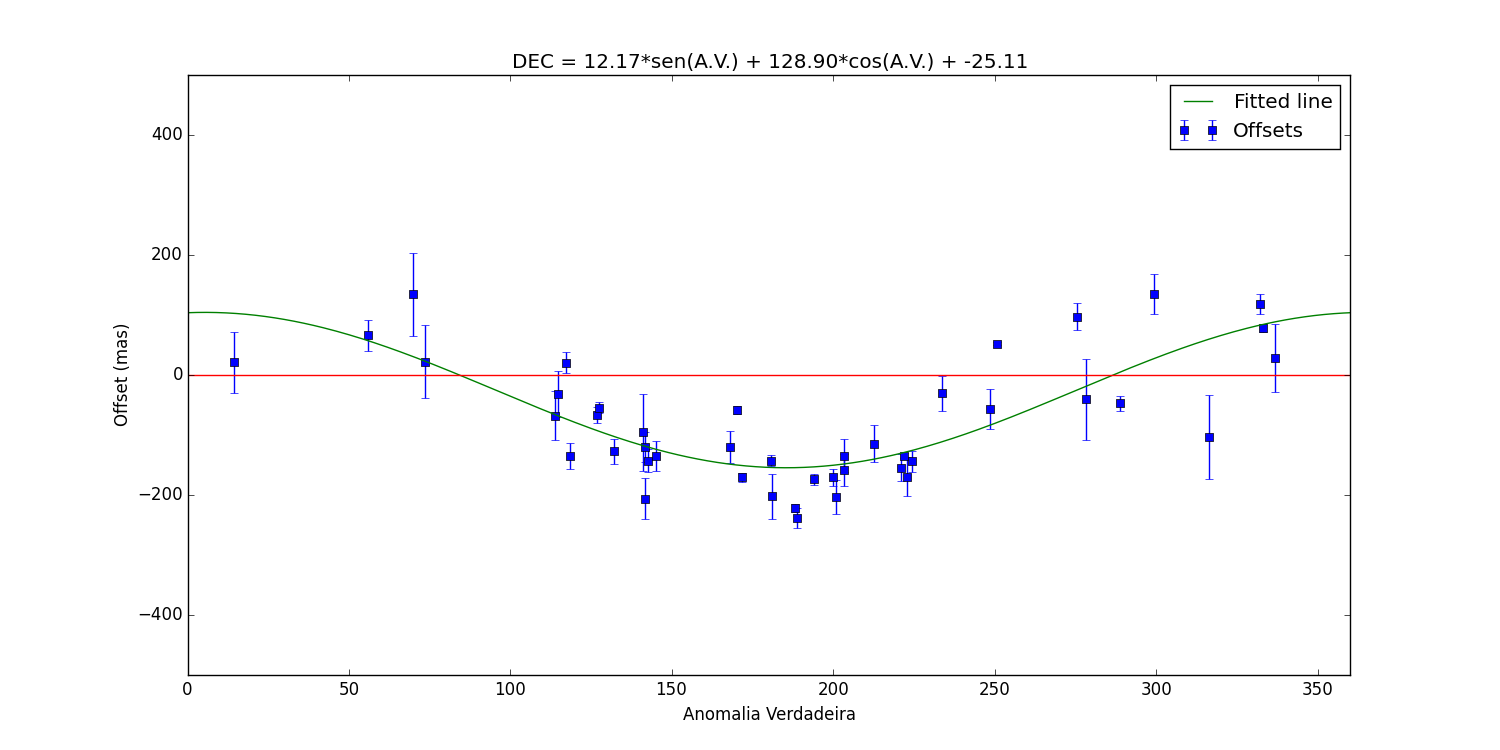
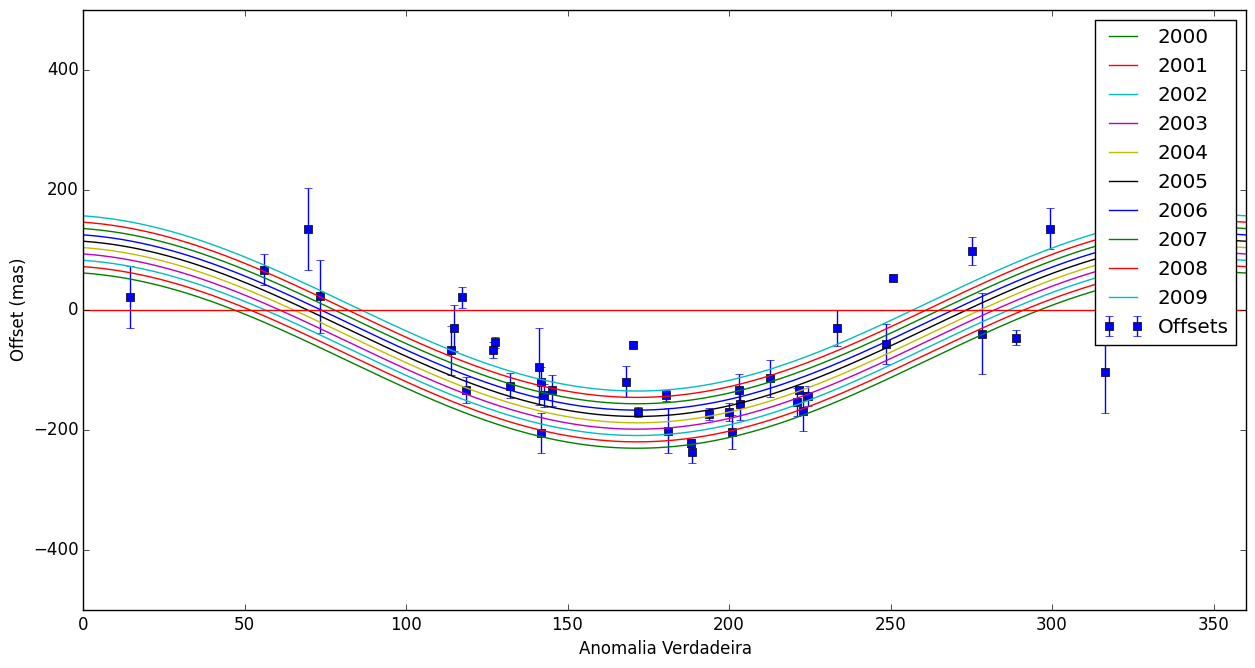
feito ajuste

diff --git a/offset_irregular/Carme/2015/teste.py b/offset_irregular/Carme/2015/teste.py
@@ -2,23 +2,41 @@ import numpy as np
 import matplotlib.pyplot as plt
 import astropy.units as u
 from astropy.time import Time
+import scipy.odr.odrpack as odrpack
 
 ######################################################################
-y = np.loadtxt('Carme_ephem.dat', skiprows=3, usecols=(2, 20, 21, 37, 16, 36), unpack=True) ## 2: JD; 20: dist_prim X; 21: dist_prim Y; 37: anom. verd.; 16: distancia; anom. med.
+y = np.loadtxt('Carme_ephem.dat', skiprows=3, usecols=(2, 20, 21, 37, 16, 36), unpack=True) ## 2: JD; 20: dist_prim X; 21: dist_prim Y; 37: anom. verd.; 16: distancia; 36: anom. med.
 z = np.loadtxt('Carme_total', usecols=(0, 1, 2, 3), unpack=True) ## 0: off RA; 1: off DEC; 2: off_err RA; 3: off_err DEC
 
 k = np.arange(361)
 
 ############## Declinacao ############################################
 
-A = np.vstack([ np.sin(y[3]*u.deg), np.cos(y[3]*u.deg), np.ones(len(y[3]))]).T
+A = np.vstack([y[0] - 2451544.5, np.sin(y[5]*u.deg)*np.cos(y[5]*u.deg), np.sin(y[5]*u.deg), np.cos(y[5]*u.deg), np.ones(len(y[3]))]).T
 
-p = np.linalg.lstsq(A, z[1])
+#p = np.linalg.lstsq(A, z[1])
+
+def f(B, x):
+    return B[0]*(x[0] - 2451544.5) + B[1]*np.sin(x[1]*u.deg) + B[2]*np.cos(x[1]*u.deg) + B[3]
+
+x = np.vstack([y[0], y[5]])
+
+linearde = odrpack.Model(f)
+#mydata = odrpack.Data(x, z[1], wd=1./np.power(z[2],2), we=1./np.power(sy,2))
+mydata = odrpack.RealData(x, z[1], sy=z[3])
+print "Declinacao"
+myodr = odrpack.ODR(mydata, linearde, beta0=[1.78854119e-03, -1.21822344e+00, 9.88555083e+00, -6.08946292e+00])
+myoutput = myodr.run()
+myoutput.pprint()
+
+#print p[0]
+#print "Desvio padrao DEC:", np.sqrt(((z[1]/z[3] - (A*p[0]).sum(axis=1))**2).sum())
 
 plt.errorbar(y[3], z[1], yerr=z[3], fmt='s', label='Offsets')
 #plt.plot(y[3], z[1], 's', label='Offsets')
-plt.plot(p[0][0]*np.sin(np.pi*k/180) + p[0][1]*np.cos(np.pi*k/180) + p[0][2], 'g', label='Fitted line')
-plt.title('DEC = {:.2f}*sen(A.V.) + {:.2f}*cos(A.V.) + {:.2f}'.format(p[0][0], p[0][1], p[0][2]))
+for i in np.arange(2000,2010,1):
+    plt.plot(f(myodr.output.beta, np.vstack([Time('{}-01-01 00:00:00'.format(i), format='iso').jd*np.ones(len(k)),k])), label=i)
+#plt.title('DEC = {:.2f}*sen(A.V.) + {:.2f}*cos(A.V.) + {:.2f}'.format(p[0][0], p[0][1], p[0][2]))
 plt.xlim(0,360)
 plt.ylim(-500,500)
 plt.xlabel('Anomalia Verdadeira')
@@ -27,22 +45,38 @@ plt.legend()
 plt.axhline(0, color='red')
 fig =plt.gcf()
 fig.set_size_inches(15.0,7.5)
-fig.savefig('DEC.png',dpi=100)
+fig.savefig('DEC.png',dpi=100, bbox_inches='tight')
 #plt.savefig('DEC.png')
 plt.clf()
-print p[1]
 
 
 #################### Ascensao Reta ##################################
 
-B = np.vstack([np.sin(y[3]*u.deg)**2, np.cos(y[3]*u.deg)**2, np.sin(y[3]*u.deg)*np.cos(y[3]*u.deg), np.sin(y[3]*u.deg), np.cos(y[3]*u.deg), np.ones(len(y[3]))]).T
+B = np.vstack([y[0] - 2451544.5, np.sin(y[5]*u.deg)*np.cos(y[5]*u.deg), np.sin(y[5]*u.deg), np.cos(y[5]*u.deg), np.ones(len(y[3]))]).T
 
-q = np.linalg.lstsq(B, z[0])
+#q = np.linalg.lstsq(B, z[0])
+
+def g(B, x):
+    return B[0]*(x[0] - 2451544.5) + B[1]*np.sin(x[1]*u.deg)*np.cos(x[1]*u.deg) + B[2]*np.sin(x[1]*u.deg) + B[3]*np.cos(x[1]*u.deg) + B[4]
+
+x = np.vstack([y[0], y[5]])
+
+linearra = odrpack.Model(g)
+#mydata = odrpack.Data(x, z[1], wd=1./np.power(z[2],2), we=1./np.power(sy,2))
+mydata = odrpack.RealData(x, z[0], sy=z[2])
+print "Ascensao Reta"
+myodr = odrpack.ODR(mydata, linearra, beta0=[3.62659327e-04,7.82345630e+00, -6.40102501e-01, -2.83655752e-01, -9.32980254e-02])
+myoutput = myodr.run()
+myoutput.pprint()
+
+#print q[0]
+#print "Desvio padrao RA:", np.sqrt(((z[0]/z[2] - (B*q[0]).sum(axis=1))**2).sum())
 
 plt.errorbar(y[3], z[0], yerr=z[2], fmt='s', label='Offsets')
 #plt.plot(y[3], z[0], 's', label='Offsets')
-plt.plot(q[0][0] * np.sin(np.pi*k/180)**2 + q[0][1] * np.cos(np.pi*k/180)**2 + q[0][2]*np.sin(np.pi*k/180)*np.cos(np.pi*k/180) + q[0][3]*np.sin(np.pi*k/180)**2 + q[0][4]*np.cos(np.pi*k/180)**2 + q[0][5], 'g', label='Fitted line')
-plt.title('RA = {:.2f}*sen^2(A.V.) + {:.2f}*cos^2(A.V.) + {:.2f}*sen(A.V.)*cos(A.V.) + {:.2f}*sen(A.V.) + {:.2f}*cos(A.V.) + {:.2f}'.format(q[0][0], q[0][1], q[0][2], q[0][3], q[0][4], q[0][5]))
+for i in np.arange(2000,2010,1):
+    plt.plot(g(myodr.output.beta, np.vstack([Time('{}-01-01 00:00:00'.format(i), format='iso').jd*np.ones(len(k)),k])), label=i)
+#plt.title('RA = {:.2f}*sen^2(A.V.) + {:.2f}*cos^2(A.V.) + {:.2f}*sen(A.V.)*cos(A.V.) + {:.2f}*sen(A.V.) + {:.2f}*cos(A.V.) + {:.2f}'.format(q[0][0], q[0][1], q[0][2], q[0][3], q[0][4], q[0][5]))
 plt.xlim(0,360)
 plt.ylim(-500,500)
 plt.xlabel('Anomalia Verdadeira')
@@ -51,8 +85,8 @@ plt.legend()
 plt.axhline(0, color='red')
 fig = plt.gcf()
 fig.set_size_inches(15.0,7.5)
-fig.savefig('RA.png',dpi=100)
-print q[1]
+fig.savefig('RA.png',dpi=100, bbox_inches='tight')
+
 
 #plt.savefig('RA.png', figsize(10,8))
 
